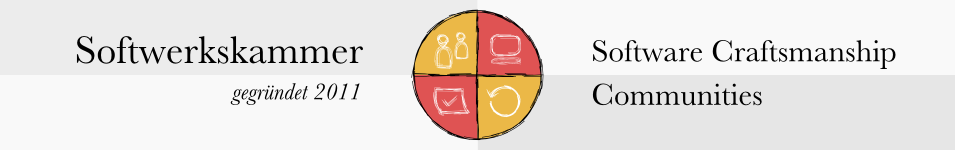
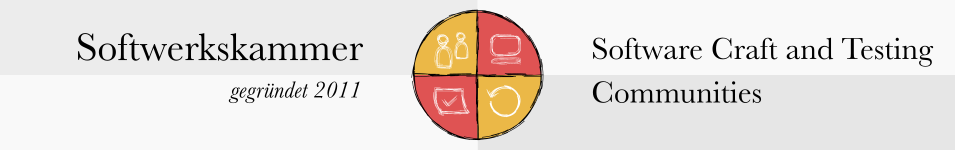
feat: use more inclusive language
This replaces the term Softwarecraftman with a more inclusive term.

diff --git a/softwerkskammer/test/wiki/wikiService_test.js b/softwerkskammer/test/wiki/wikiService_test.js
@@ -71,7 +71,7 @@ describe('WikiService (list for dashboard)', () => {
   beforeEach(() => {
     const metadatas = [
       {
-        'name': 'craftsmanswap/index.md',
+        'name': 'crafterswap/index.md',
         'hashRef': 'HEAD',
         'fullhash': 'baa6d36a37f0f04e1e88b4b57f0d89893789686c',
         'author': 'leider',
@@ -79,7 +79,7 @@ describe('WikiService (list for dashboard)', () => {
         'comment': 'no comment'
       },
       {
-        'name': 'craftsmanswap/index.md',
+        'name': 'crafterswap/index.md',
         'hashRef': 'e6eb66c',
         'fullhash': 'e6eb66c3f666888da4b0da3f9207d88e996e8bf5',
         'author': 'leider',
@@ -87,7 +87,7 @@ describe('WikiService (list for dashboard)', () => {
         'comment': 'no comment'
       },
       {
-        'name': 'craftsmanswap/blog_2014-03-19_der_blog.md',
+        'name': 'crafterswap/blog_2014-03-19_der_blog.md',
         'hashRef': '643e958',
         'fullhash': '643e958937540da5907f7d32d87647cb5773e626',
         'author': 'leider',
@@ -95,7 +95,7 @@ describe('WikiService (list for dashboard)', () => {
         'comment': 'no comment'
       },
       {
-        'name': 'craftsmanswap/blog_2014-03-19_der_blog.md',
+        'name': 'crafterswap/blog_2014-03-19_der_blog.md',
         'hashRef': 'a3ab0d7',
         'fullhash': 'a3ab0d79e3958e21b0367bc952a04596e7892739',
         'author': 'leider',
@@ -103,7 +103,7 @@ describe('WikiService (list for dashboard)', () => {
         'comment': 'no comment'
       },
       {
-        'name': 'craftsmanswap/index.md',
+        'name': 'crafterswap/index.md',
         'hashRef': 'f327d71',
         'fullhash': 'f327d711e3e8f0104cde2902198512444af46df3',
         'author': 'leider',
@@ -111,7 +111,7 @@ describe('WikiService (list for dashboard)', () => {
         'comment': 'no comment'
       },
       {
-        'name': 'craftsmanswap/blog_vonmorgen.md',
+        'name': 'crafterswap/blog_vonmorgen.md',
         'hashRef': '370dd3c',
         'fullhash': '370dd3ce2e09fe74a78be8f8a10d36e7a3d8975b',
         'author': 'trauerleider',
@@ -119,7 +119,7 @@ describe('WikiService (list for dashboard)', () => {
         'comment': 'no comment'
       },
       {
-        'name': 'craftsmanswap/index.md',
+        'name': 'crafterswap/index.md',
         'hashRef': '2c0a379',
         'fullhash': '2c0a379a5497d0998ac2ffcad4cc4261fb0a19c3',
         'author': 'leider',
@@ -137,11 +137,11 @@ describe('WikiService (list for dashboard)', () => {
   });
 
   it('removes duplicate entries and blogposts for the dashboard', done => {
-    wikiService.listChangedFilesinDirectory('craftsmanswap', (err, metadata) => {
+    wikiService.listChangedFilesinDirectory('crafterswap', (err, metadata) => {
       expect(metadata).to.have.length(2);
-      expect(metadata[0].name).to.equal('craftsmanswap/index.md');
+      expect(metadata[0].name).to.equal('crafterswap/index.md');
       expect(metadata[0].datestring).to.equal('2014-04-30 17:25:48 +0200');
-      expect(metadata[1].name).to.equal('craftsmanswap/blog_vonmorgen.md');
+      expect(metadata[1].name).to.equal('crafterswap/blog_vonmorgen.md');
       expect(metadata[1].datestring).to.equal('2014-02-13 08:26:01 +0100');
       done(err);
     });
@@ -320,7 +320,7 @@ describe('Wiki Service (replaceNonExistentNicknames)', () => {
   beforeEach(() => {
     metadatas = [
       {
-        'name': 'craftsmanswap/index.md',
+        'name': 'crafterswap/index.md',
         'hashRef': 'HEAD',
         'fullhash': 'baa6d36a37f0f04e1e88b4b57f0d89893789686c',
         'author': 'known',
@@ -328,7 +328,7 @@ describe('Wiki Service (replaceNonExistentNicknames)', () => {
         'comment': 'no comment'
       },
       {
-        'name': 'craftsmanswap/blog_vonmorgen.md',
+        'name': 'crafterswap/blog_vonmorgen.md',
         'hashRef': '370dd3c',
         'fullhash': '370dd3ce2e09fe74a78be8f8a10d36e7a3d8975b',
         'author': 'unknown',

diff --git a/softwerkskammer/test/wiki/gitDiff_test.js b/softwerkskammer/test/wiki/gitDiff_test.js
@@ -8,14 +8,14 @@ const Diff = beans.get('gitDiff');
 describe('Git Diff', () => {
 
   it('formats changes', () => {
-    const changesFromConsole = 'diff --git a/craftsmanswap/index.md b/craftsmanswap/index.md\n' +
+    const changesFromConsole = 'diff --git a/crafterswap/index.md b/crafterswap/index.md\n' +
       'index 07ce5cf..1537b92 100644\n' +
-      '--- a/craftsmanswap/index.md\n' +
-      '+++ b/craftsmanswap/index.md\n' +
+      '--- a/crafterswap/index.md\n' +
+      '+++ b/crafterswap/index.md\n' +
       '@@ -1,3 +1,14 @@\n' +
       'HiHo!\n' +
       '\n' +
-      '### Craftsman Swapper\n' +
+      '### Crafter Swapper\n' +
       '+\n' +
       '+```javascript\n' +
       '+"use strict";\n' +
@@ -37,7 +37,7 @@ describe('Git Diff', () => {
         {text: '@@ -1,3 +1,14 @@', ldln: '...', rdln: '...', 'class': 'gc'},
         {text: 'HiHo!', ldln: 0, rdln: 2, 'class': undefined},
         {text: '', ldln: 0, rdln: 4, 'class': undefined},
-        {text: '### Craftsman Swapper', ldln: 0, rdln: 6, 'class': undefined},
+        {text: '### Crafter Swapper', ldln: 0, rdln: 6, 'class': undefined},
         {text: '+', ldln: '', rdln: 7, 'class': 'gi'},
         {text: '+```javascript', ldln: '', rdln: 8, 'class': 'gi'},
         {text: '+"use strict";', ldln: '', rdln: 9, 'class': 'gi'},

diff --git a/softwerkskammer/initialDBSetup.js b/softwerkskammer/initialDBSetup.js
@@ -30,7 +30,7 @@ async.parallel(
         {id: 'alle', emailPrefix: 'alleAlle', description: 'D-Scription', shortName: 'Alle', longName: 'Alle', type: 'Themengruppe', color: '#ff0000', mapX: '100', mapY: '100'},
         {id: 'commercial', emailPrefix: 'commercial', description: 'D-Scription', longName: 'Commercial', type: 'Regionalgruppe', color: '#ff00ff', mapX: '200', mapY: '100', shortName: 'C'},
         {id: 'neueplattform', emailPrefix: 'neueplattform', description: 'D-Scription', longName: 'Agora', type: 'Regionalgruppe', color: '#ffff00', mapX: '180', mapY: '100', shortName: 'A'},
-        {id: 'craftsmanswap', emailPrefix: 'craftsmanswap', description: 'D-Scription', longName: 'Craftsman Swaps', type: 'Regionalgruppe', color: '#0000ff', mapX: '100', mapY: '200', shortName: 'CS'},
+        {id: 'crafterswap', emailPrefix: 'crafterswap', description: 'D-Scription', longName: 'Crafter Swaps', type: 'Regionalgruppe', color: '#0000ff', mapX: '100', mapY: '200', shortName: 'CS'},
         {id: 'internet', emailPrefix: 'internet', description: 'D-Scription', longName: 'Virtual Group', type: 'Regionalgruppe', color: '#00ff00', mapX: '100', mapY: '300', shortName: 'VG'}
       ];
       async.map(groups, (group, cb) => {

diff --git a/softwerkskammer/test/wiki/gitmech_test.js b/softwerkskammer/test/wiki/gitmech_test.js
@@ -124,8 +124,8 @@ describe('the gitmech module', () => {
           'leider\n' +
           '2014-03-01 18:36:29 +0100\n' +
           'rename: "blog_vonheute" -> "blog_2014-03-19_der_blog"\n' +
-          'craftsmanswap/blog_2014-03-19_der_blog.md\n' +
-          'craftsmanswap/blog_vonheute.md\n\n' +
+          'crafterswap/blog_2014-03-19_der_blog.md\n' +
+          'crafterswap/blog_vonheute.md\n\n' +
           '7f91fc6\n' +
           '7f91fc607da7947e62b2d8a52088ee0ce29a88c8\n' +
           'leider\n' +
@@ -137,7 +137,7 @@ describe('the gitmech module', () => {
         let metadata = metadatas[0];
         expect(metadatas).to.have.length(2);
 
-        expect(metadata.name).to.equal('craftsmanswap/blog_2014-03-19_der_blog.md');
+        expect(metadata.name).to.equal('crafterswap/blog_2014-03-19_der_blog.md');
         expect(metadata.hashRef).to.equal('HEAD');
         expect(metadata.fullhash).to.equal('7f91fc607da7947e62b2d8a52088ee0ce29a88c8');
         expect(metadata.author).to.equal('leider');

diff --git a/softwerkskammer/test/groups/groupsService_test.js b/softwerkskammer/test/groups/groupsService_test.js
@@ -134,16 +134,16 @@ describe('Groups Service (groupFromObject)', () => {
 
   it('returns a valid Group object if there is valid group data', () => {
     const result = new Group({
-      id: 'craftsmanswap',
-      longName: 'Craftsman Swaps',
+      id: 'crafterswap',
+      longName: 'Crafter Swaps',
       description: 'A group for organizing CS',
       type: 'Themengruppe'
     });
 
     expect(result).to.not.be(null);
     expect(result).to.be.instanceOf(Group);
-    expect(result.id).to.equal('craftsmanswap');
-    expect(result.longName).to.equal('Craftsman Swaps');
+    expect(result.id).to.equal('crafterswap');
+    expect(result.longName).to.equal('Crafter Swaps');
     expect(result.description).to.equal('A group for organizing CS');
     expect(result.type).to.equal('Themengruppe');
   });

diff --git a/softwerkskammer/test/wiki/wikiServiceEventParsing_test.js b/softwerkskammer/test/wiki/wikiServiceEventParsing_test.js
@@ -15,7 +15,7 @@ describe('Wiki Service - Event Parsing', () => {
     const wikifile =
       '## Europaweite Veranstaltungen 2016\n' +
       '\n' +
-      'Diese Seite bietet eine Übersicht über Konferenzen und ähnliche Veranstaltungen rund um Craftsmanship und Softwareentwicklung.\n' +
+      'Diese Seite bietet eine Übersicht über Konferenzen und ähnliche Veranstaltungen rund um Craft, Testing und Softwareentwicklung.\n' +
       '\n' +
       'Konferenzen, bei denen kein Datum angegeben ist, haben in den Vorjahren um diese Zeit stattgefunden. Wir haben jedoch noch keine aktuellen Informationen. (Weißt Du mehr? Dann trag das Datum und den Link einfach ein!)\n' +
       '\n' +

diff --git a/softwerkskammer/testApp/app_test.js b/softwerkskammer/testApp/app_test.js
@@ -45,7 +45,7 @@ describe('SWK Plattform server', () => {
 
   it('renders the i18n translated text on the home page correctly', done => {
     httpRequest({uri: baseUri}, (req, resp) => {
-      expect(resp.body).to.contain('Die Softwerkskammer hat sich 2011 gegründet, um den Austausch Interessierter zum Thema Software Craftsmanship\nzu vereinfachen.');
+      expect(resp.body).to.contain('Die Softwerkskammer hat sich 2011 gegründet, um den Austausch Interessierter zum Thema Software Craft und Testing\nzu vereinfachen.');
       done(); // without error check
     });
   });

diff --git a/README.md b/README.md
@@ -3,7 +3,7 @@ Agora
 
 [![Build Status](https://travis-ci.org/softwerkskammer/Agora.png)](https://travis-ci.org/softwerkskammer/Agora)
 
-This is the project to build the new groupware platform for the German Software Craftsmanship communities. It can be seen in action on https://www.softwerkskammer.org
+This is the project to build the new groupware platform for the German Software Craft and Testing communities. It can be seen in action on https://www.softwerkskammer.org
 
 Want to help out? Check out our [Contribution Guidelines](CONTRIBUTING.md).
 

diff --git a/CONTRIBUTING.md b/CONTRIBUTING.md
@@ -10,5 +10,5 @@ Co-ordination via the mailinglist at https://www.softwerkskammer.org/groups/agor
 Slack
 -----
 
-There is an Agora slack channel on the [Software Craftsmanship Slack](https://softwarecraftsmanship.slack.com/messages/agora/). Invite yourself via http://slack.softwarecraftsmanship.org/.
+There is an Agora slack channel on the [Software Crafters Slack](https://softwarecrafters.slack.com/messages/agora/). Invite yourself via https://slack.softwarecrafters.org/.
 
